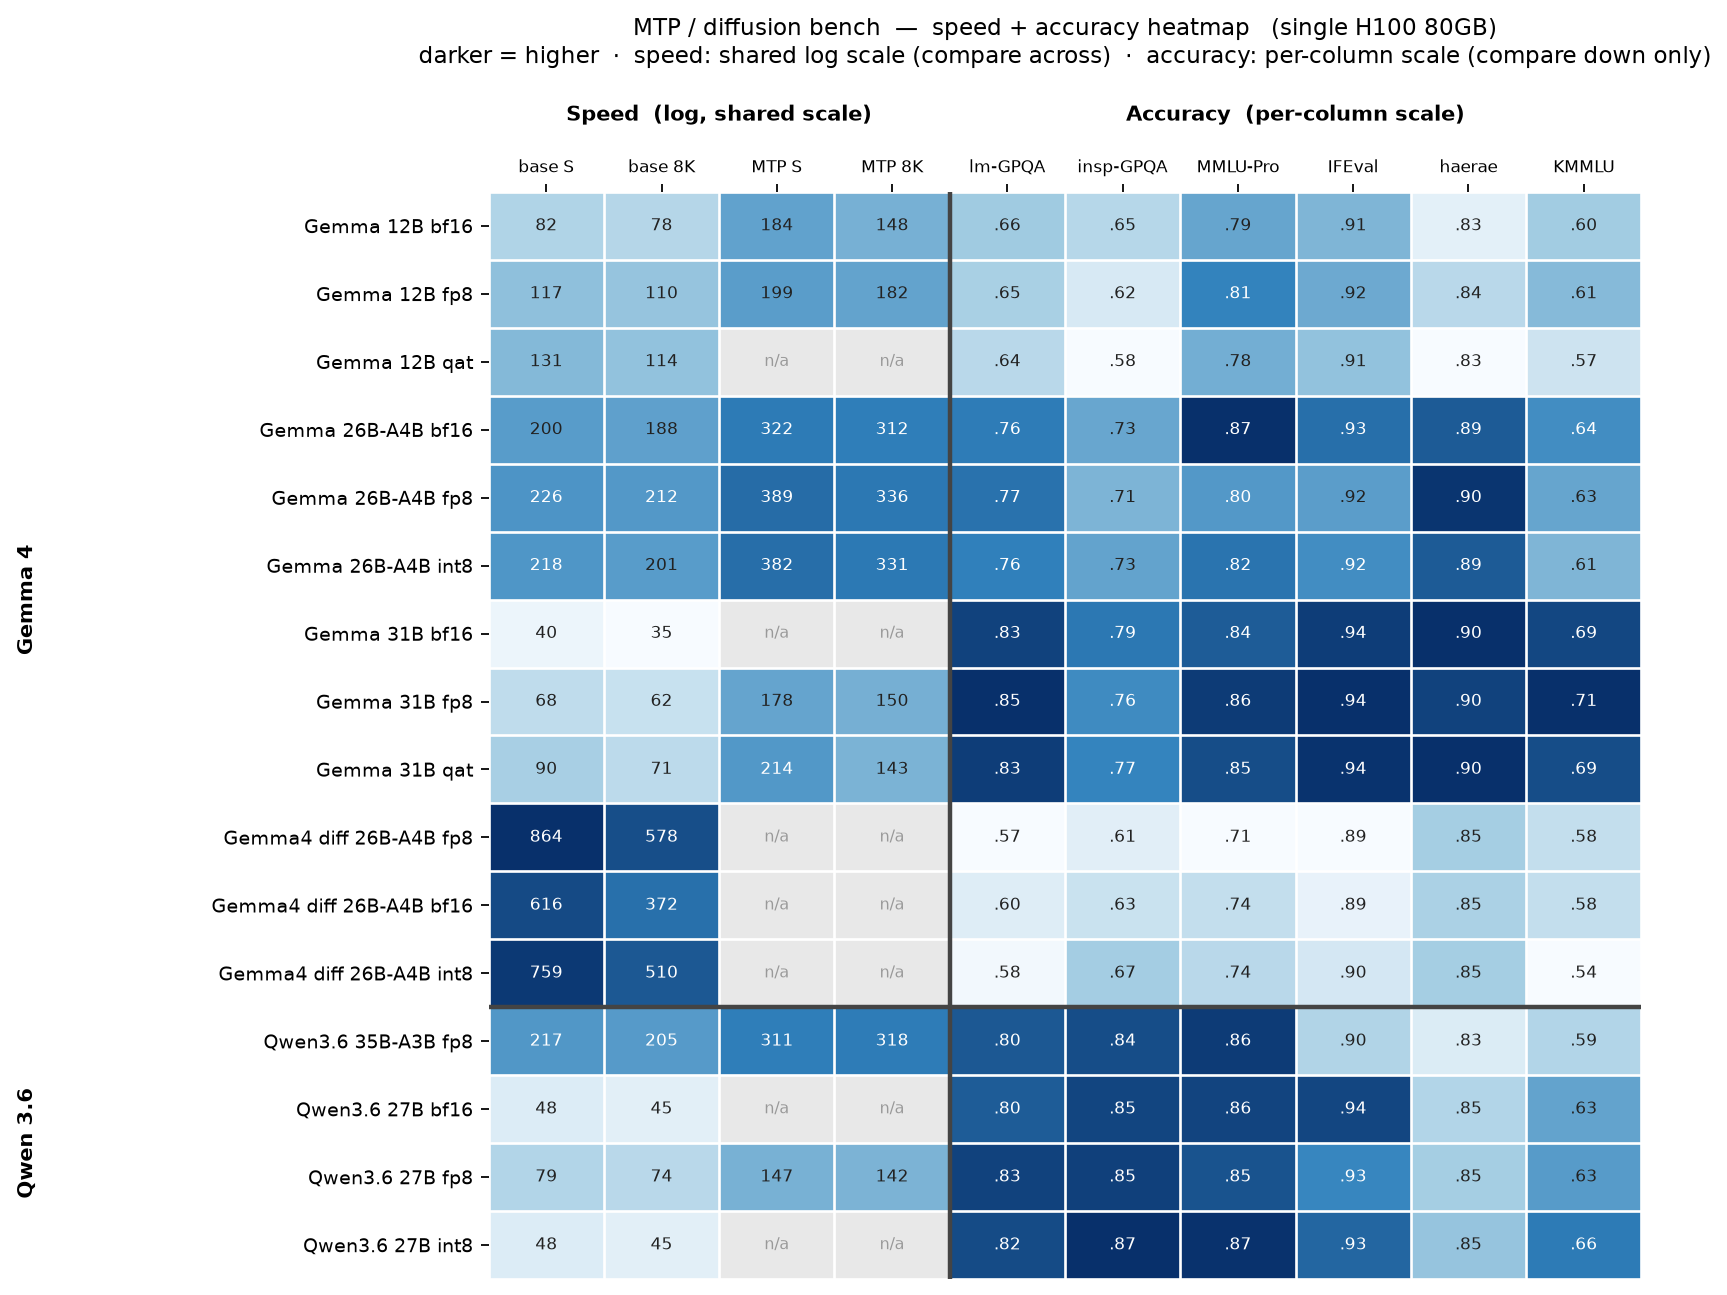
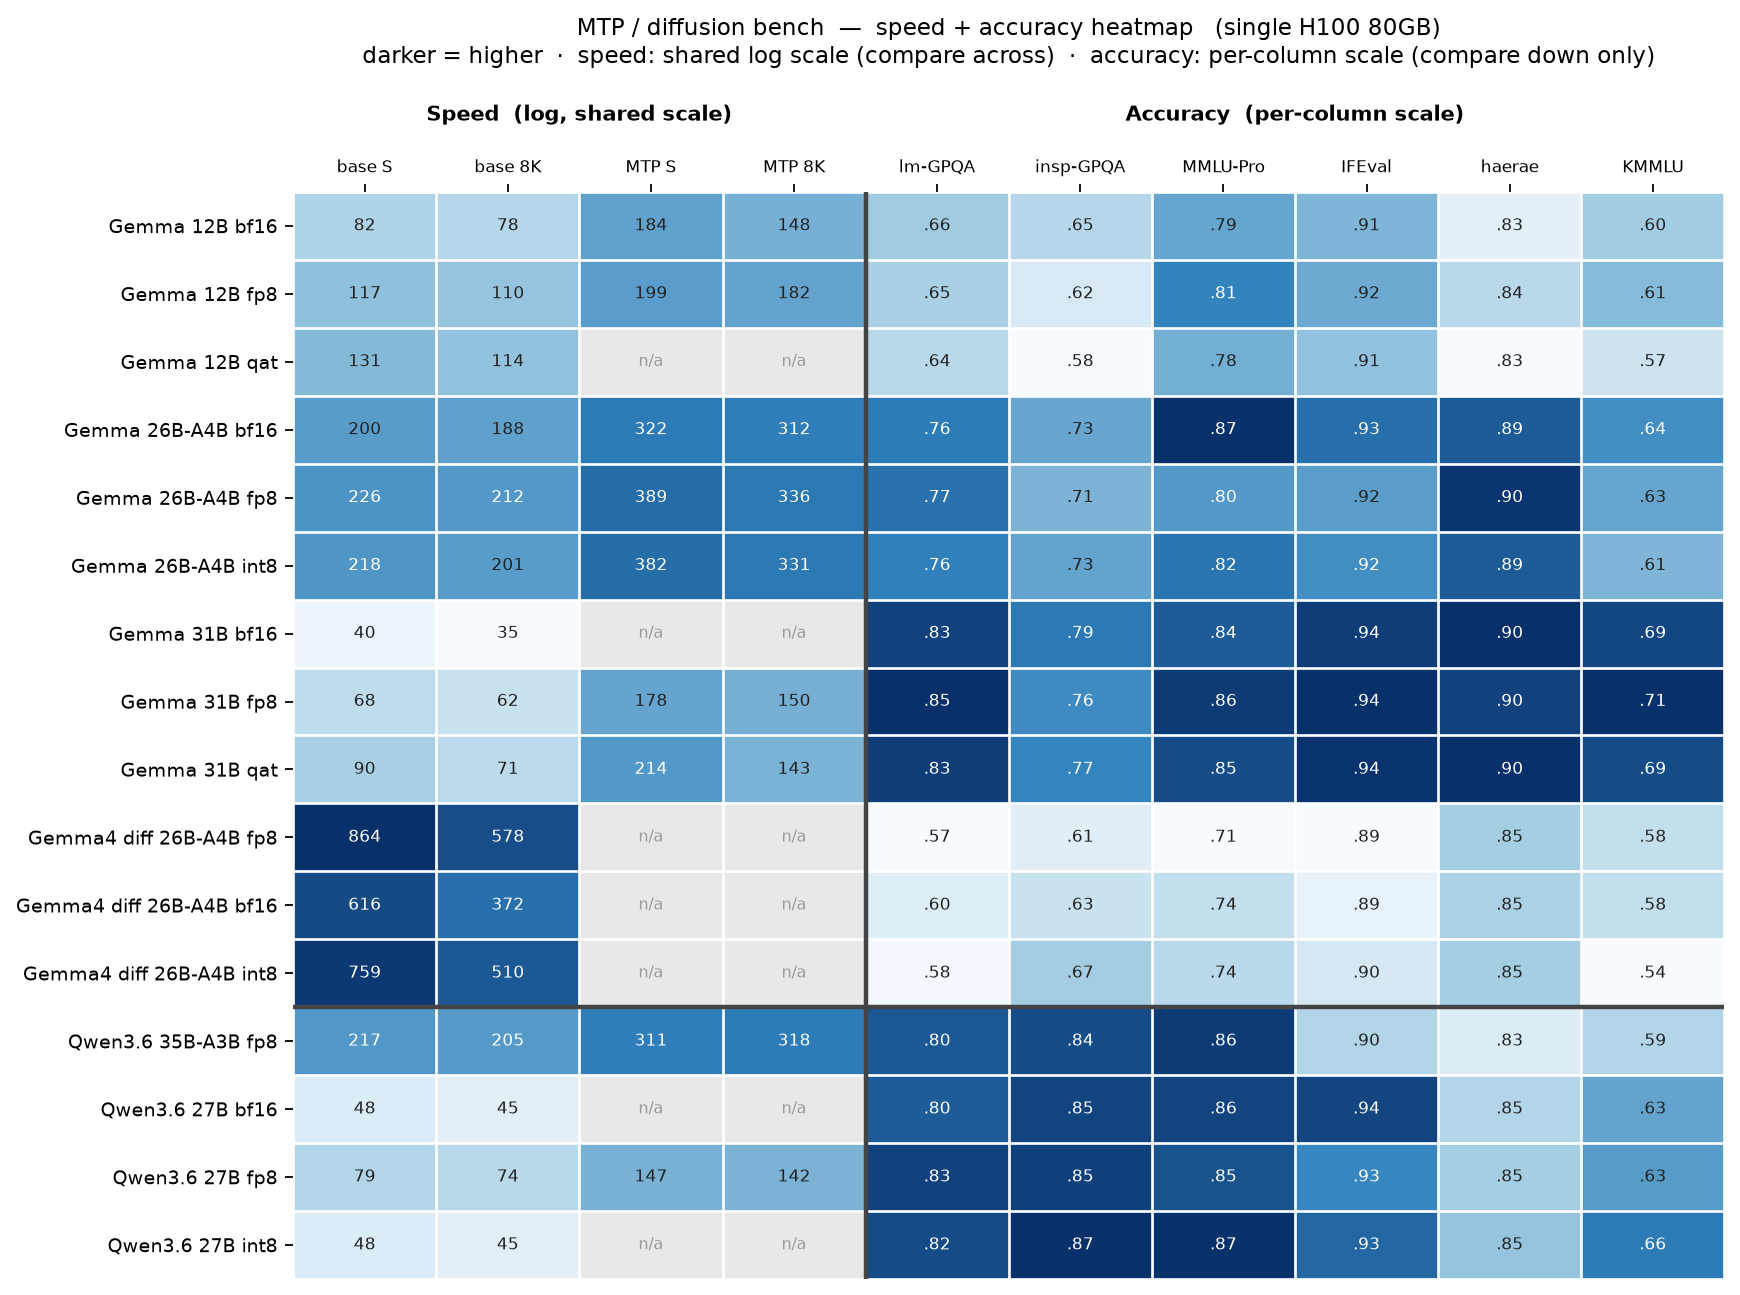
docs(heatmap): 좌측 세로 패밀리 라벨 제거(모델명에 이미 포함, 중복), 경계선은 유지, 캐시 v4

diff --git a/report/make_heatmap.py b/report/make_heatmap.py
@@ -95,8 +95,6 @@ ax.axhline(11.5, color="#444", lw=2)
 # 그룹 헤더 (수평 열 라벨 바로 위)
 ax.text(1.5, -1.55, "Speed  (log, shared scale)", ha="center", fontsize=9.5, weight="bold")
 ax.text(6.5, -1.55, "Accuracy  (per-column scale)", ha="center", fontsize=9.5, weight="bold")
-ax.text(-4.6, 5.5, "Gemma 4", rotation=90, va="center", fontsize=9.5, weight="bold")
-ax.text(-4.6, 13.5, "Qwen 3.6", rotation=90, va="center", fontsize=9.5, weight="bold")
 
 ax.set_xticks(np.arange(-0.5, ncol, 1), minor=True)
 ax.set_yticks(np.arange(-0.5, nrow, 1), minor=True)

diff --git a/README.md b/README.md
@@ -10,7 +10,7 @@
 
 ## 한눈에 — 속도 + 정확도 히트맵
 
-![속도+정확도 히트맵](report/heatmap.png?v=3)
+![속도+정확도 히트맵](report/heatmap.png?v=4)
 
 진할수록 상위. **두 그룹은 척도가 다르다.** 속도 4열(base S/8K·MTP S/8K)은 같은 tok/s 단위라 **공통 로그 척도**로 묶어 가로 비교가 되고(MTP 열이 base보다 진해지면 가속, 8K가 short보다 옅으면 긴 문맥 감속), 정확도 6열은 단위·동적범위가 제각각이라 **열별 min–max 독립 정규화**라 세로로만 읽는다(같은 진한 셀이라도 IFEval 0.94와 lm-GPQA 0.85는 절대값이 다름). base는 그 행의 기본 기법(AR, Gemma4 diff 행은 diffusion), `n/a`는 측정불가/해당없음(eager 폴백 비공정 속도 포함). 행은 Gemma 4 → Qwen 3.6 패밀리로 묶었다. 재현 스크립트는 [report/make_heatmap.py](report/make_heatmap.py).
 